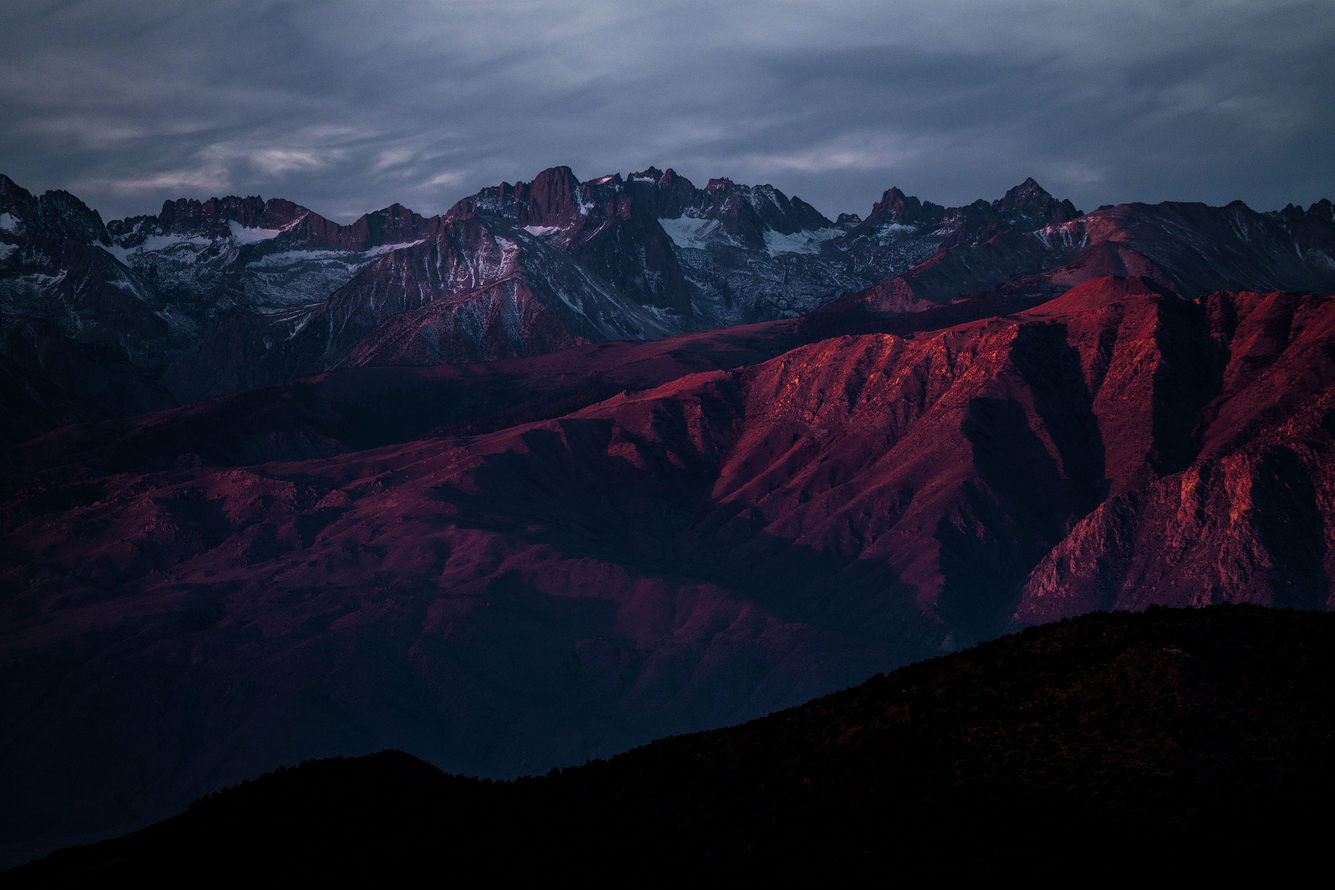
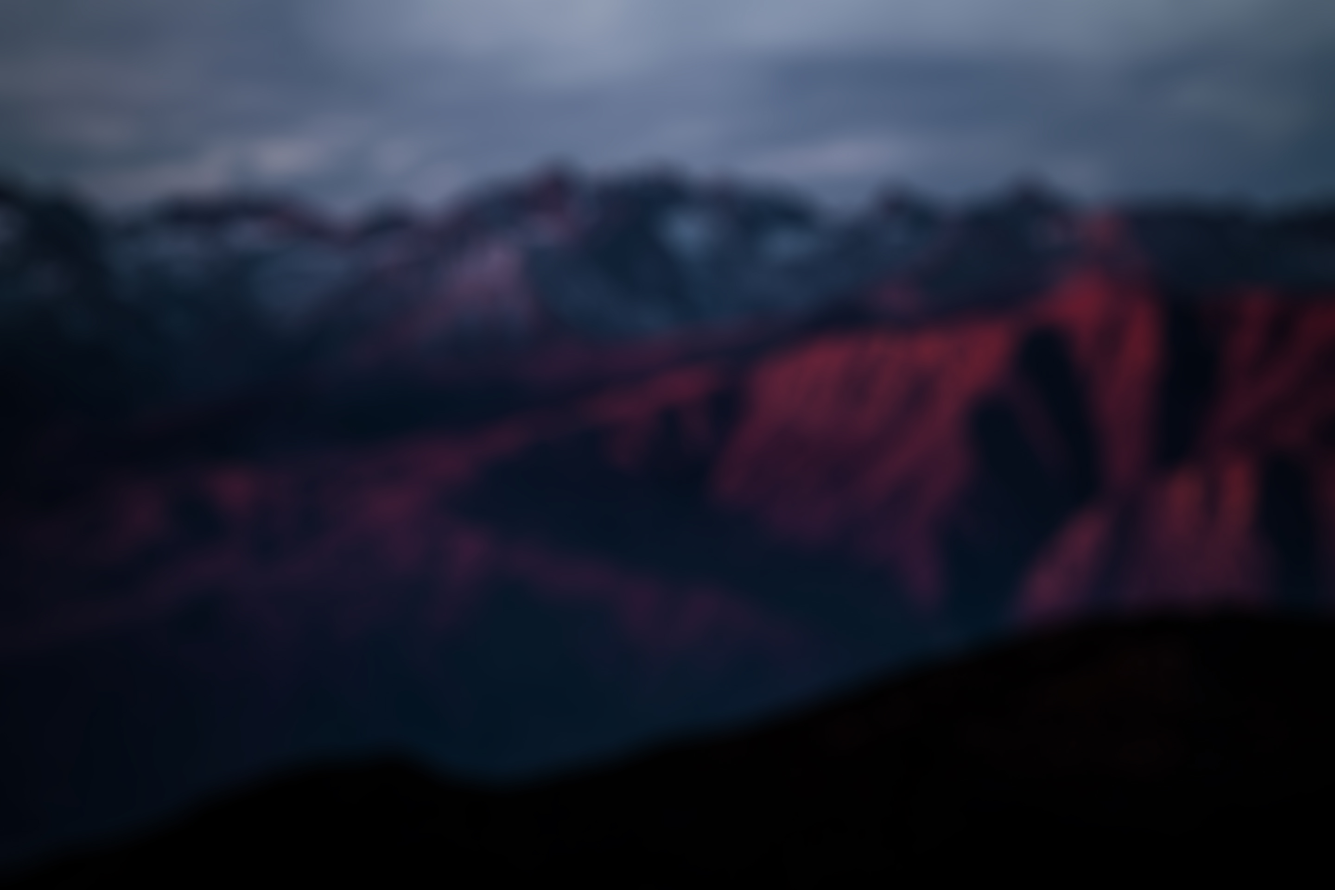
Update 1.2 : Load Optimisation

diff --git a/api/public/bundle.js b/api/public/bundle.js
@@ -22139,7 +22139,7 @@ exports = module.exports = __webpack_require__(49)();
 
 
 // module
-exports.push([module.i, "body{\n background: url('https://stmed.net/sites/default/files/turquoise-blur-wallpapers-25329-1643952.jpg');  \n}\n  .main-container {\n    padding: 0;\n}\n\n.card {\n  background-color:rgba(255,255,255,0.9);\n  border-radius: 0;\n  border: none;\n}\n\n.summary-item {\n    margin-bottom: 10px;\n}\n\n#step-container {\n    min-height: 470px;\n    padding: 12px 20px;\n}\n\nbutton {\n    cursor: pointer;\n}\n\n\n@media (min-width: 576px) {\n    body {\n        padding-top: 15px;\n    }\n\n    .main-container {\n        padding-left: 15px;\n        padding-right: 15px;\n    }\n\n    .card {\n        border-radius: 4px;\n        border: 1px solid rgba(0, 0, 0, 0.125);\n    }\n}\n", ""]);
+exports.push([module.i, "body{\n background: url('images/blur-bg.jpg');  \n}\n  .main-container {\n    padding: 0;\n}\n\n.card {\n  background-color:rgba(255,255,255,0.9);\n  border-radius: 0;\n  border: none;\n}\n\n.summary-item {\n    margin-bottom: 10px;\n}\n\n#step-container {\n    min-height: 470px;\n    padding: 12px 20px;\n}\n\nbutton {\n    cursor: pointer;\n}\n\n\n@media (min-width: 576px) {\n    body {\n        padding-top: 15px;\n    }\n\n    .main-container {\n        padding-left: 15px;\n        padding-right: 15px;\n    }\n\n    .card {\n        border-radius: 4px;\n        border: 1px solid rgba(0, 0, 0, 0.125);\n    }\n}\n", ""]);
 // exports
 
 

diff --git a/templates/index.html b/templates/index.html
@@ -121,7 +121,7 @@
 
     <!-- home
     ================================================== -->
-    <section id="home" class="s-home target-section" data-parallax="scroll" data-image-src="{{ url_for('static',filename='images/hero-bg.jpg')}}" data-position-y=center>
+    <section id="home" class="s-home target-section" data-parallax="scroll" data-image-src="{{ url_for('static',filename='images/hero-bg.png')}}" data-position-y=center>
 
         <div class="overlay"></div>
         <div class="shadow-overlay"></div>

diff --git a/index.html b/index.html
@@ -101,7 +101,7 @@
 
     <!-- home
     ================================================== -->
-    <section id="home" class="s-home target-section" data-parallax="scroll" data-image-src="images/hero-bg.jpg"
+    <section id="home" class="s-home target-section" data-parallax="scroll" data-image-src="images/hero-bg.png"
         data-position-y=center>
 
         <div class="overlay"></div>
